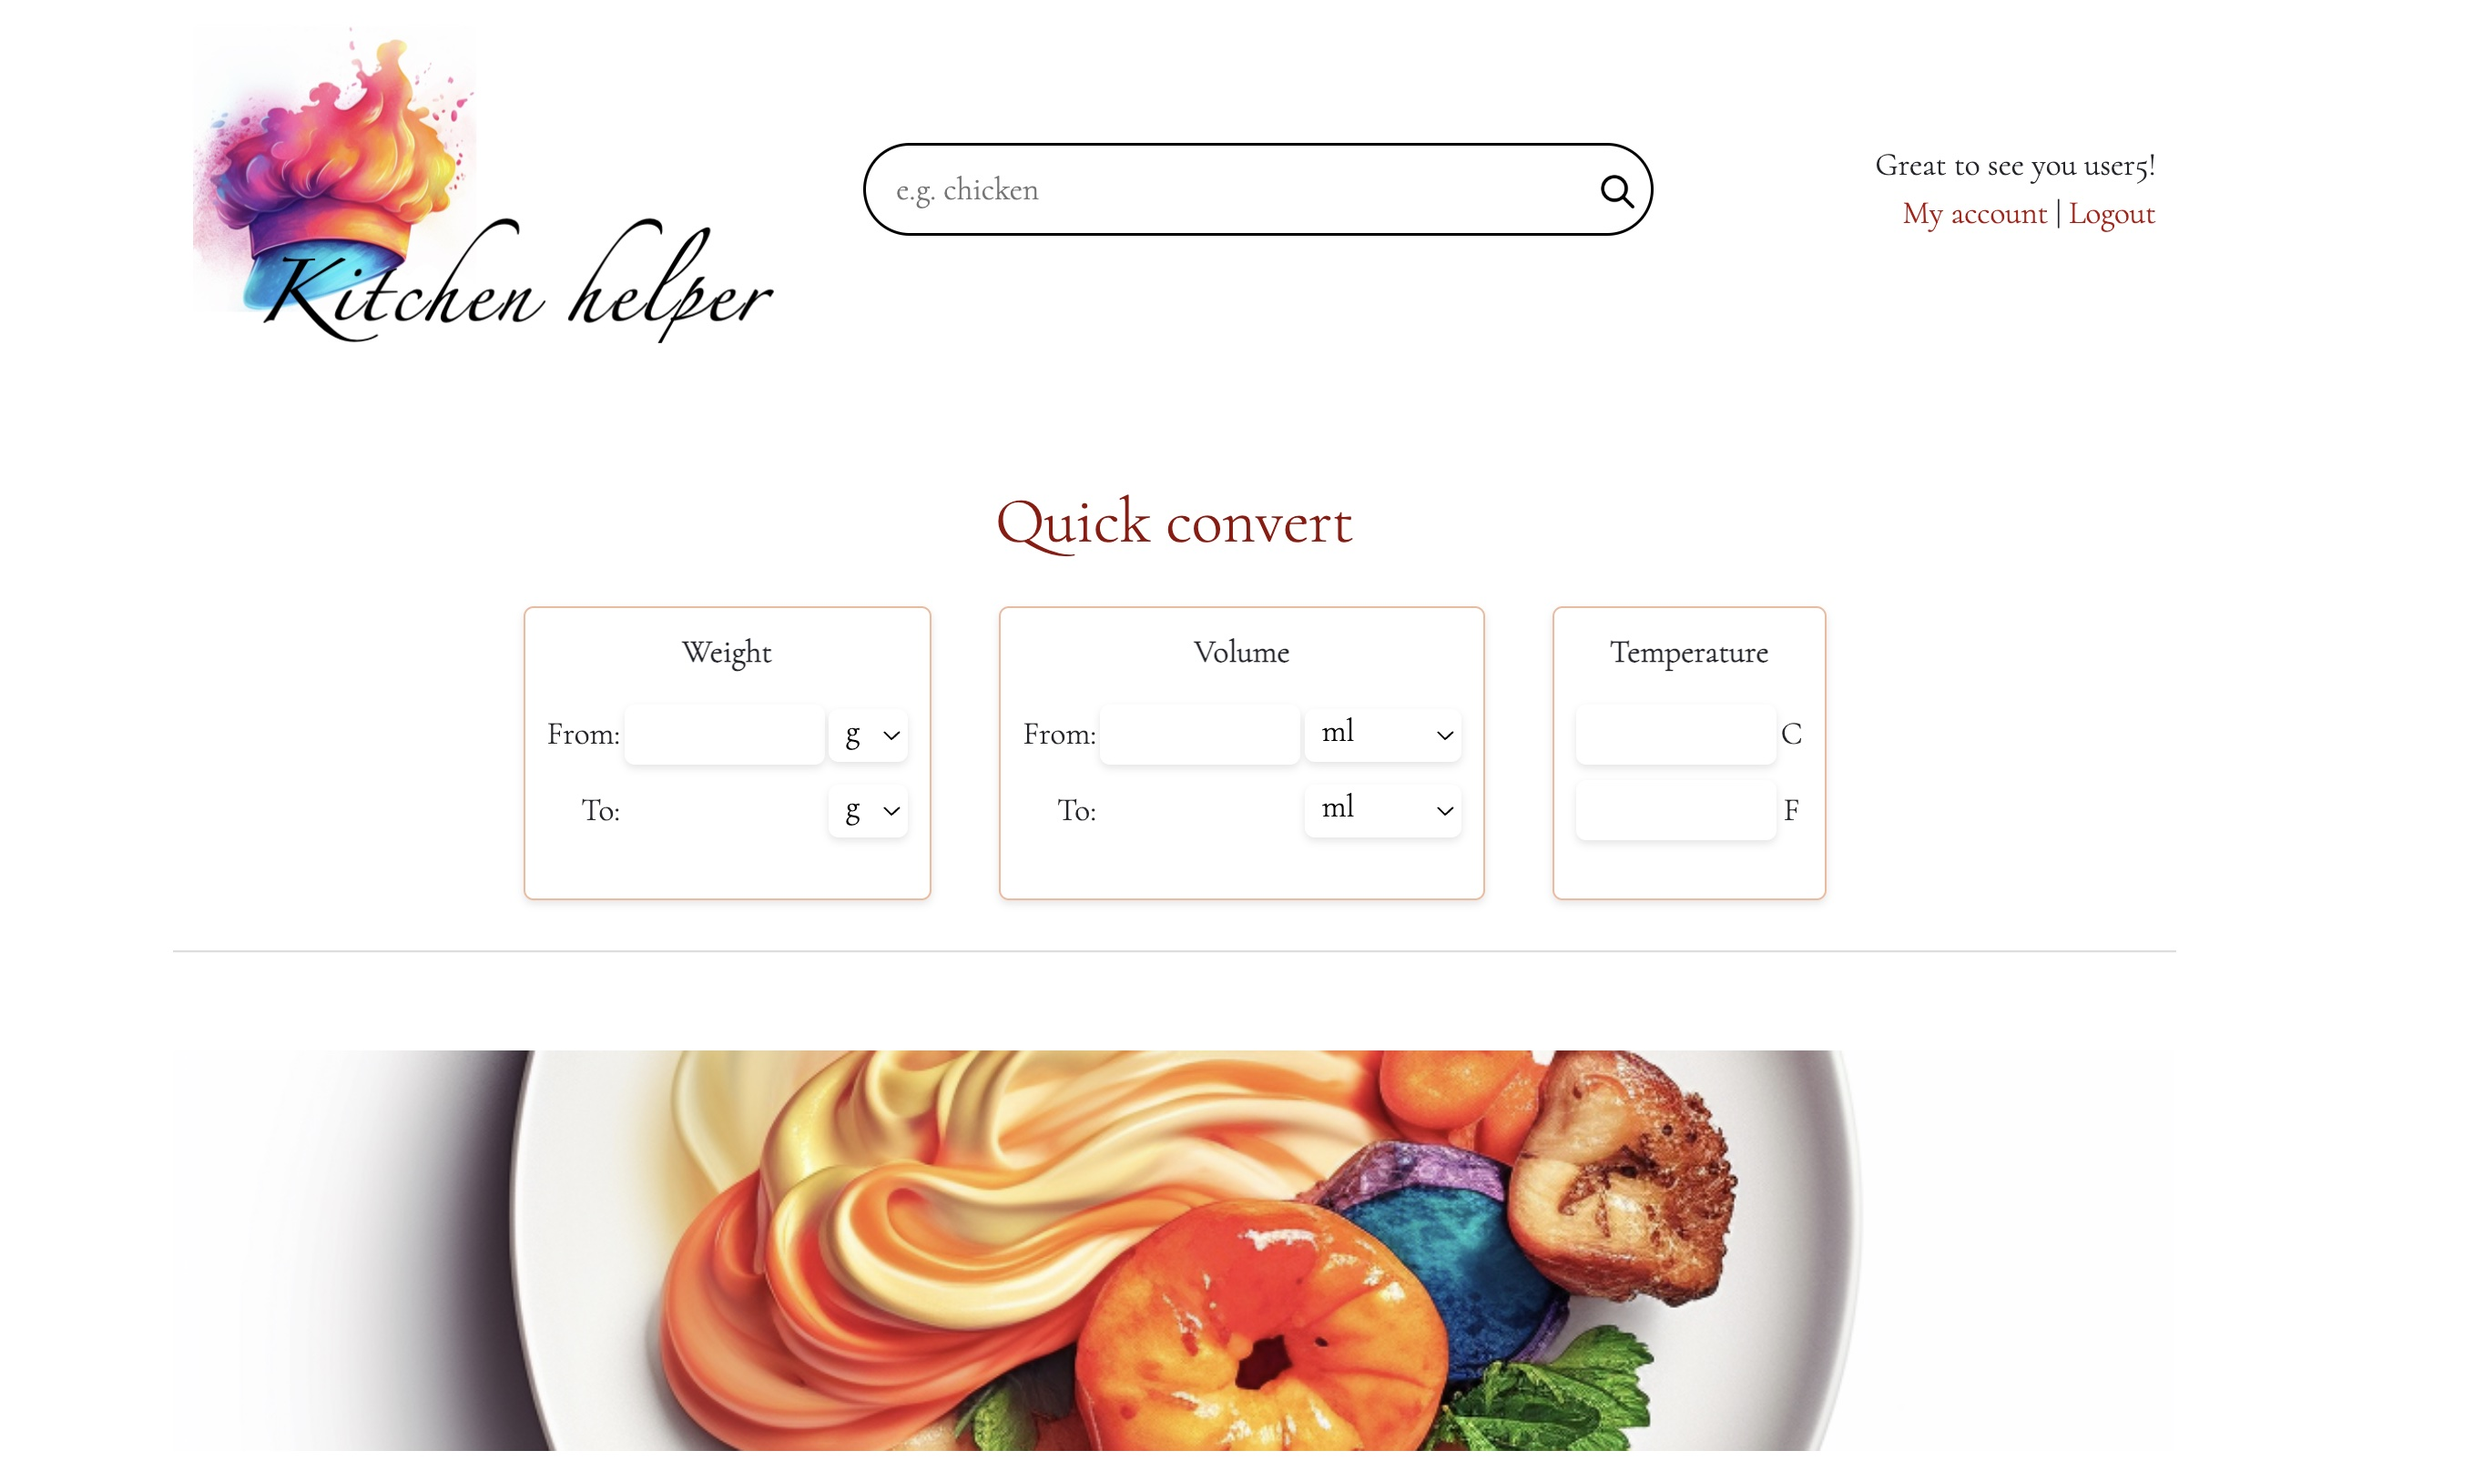
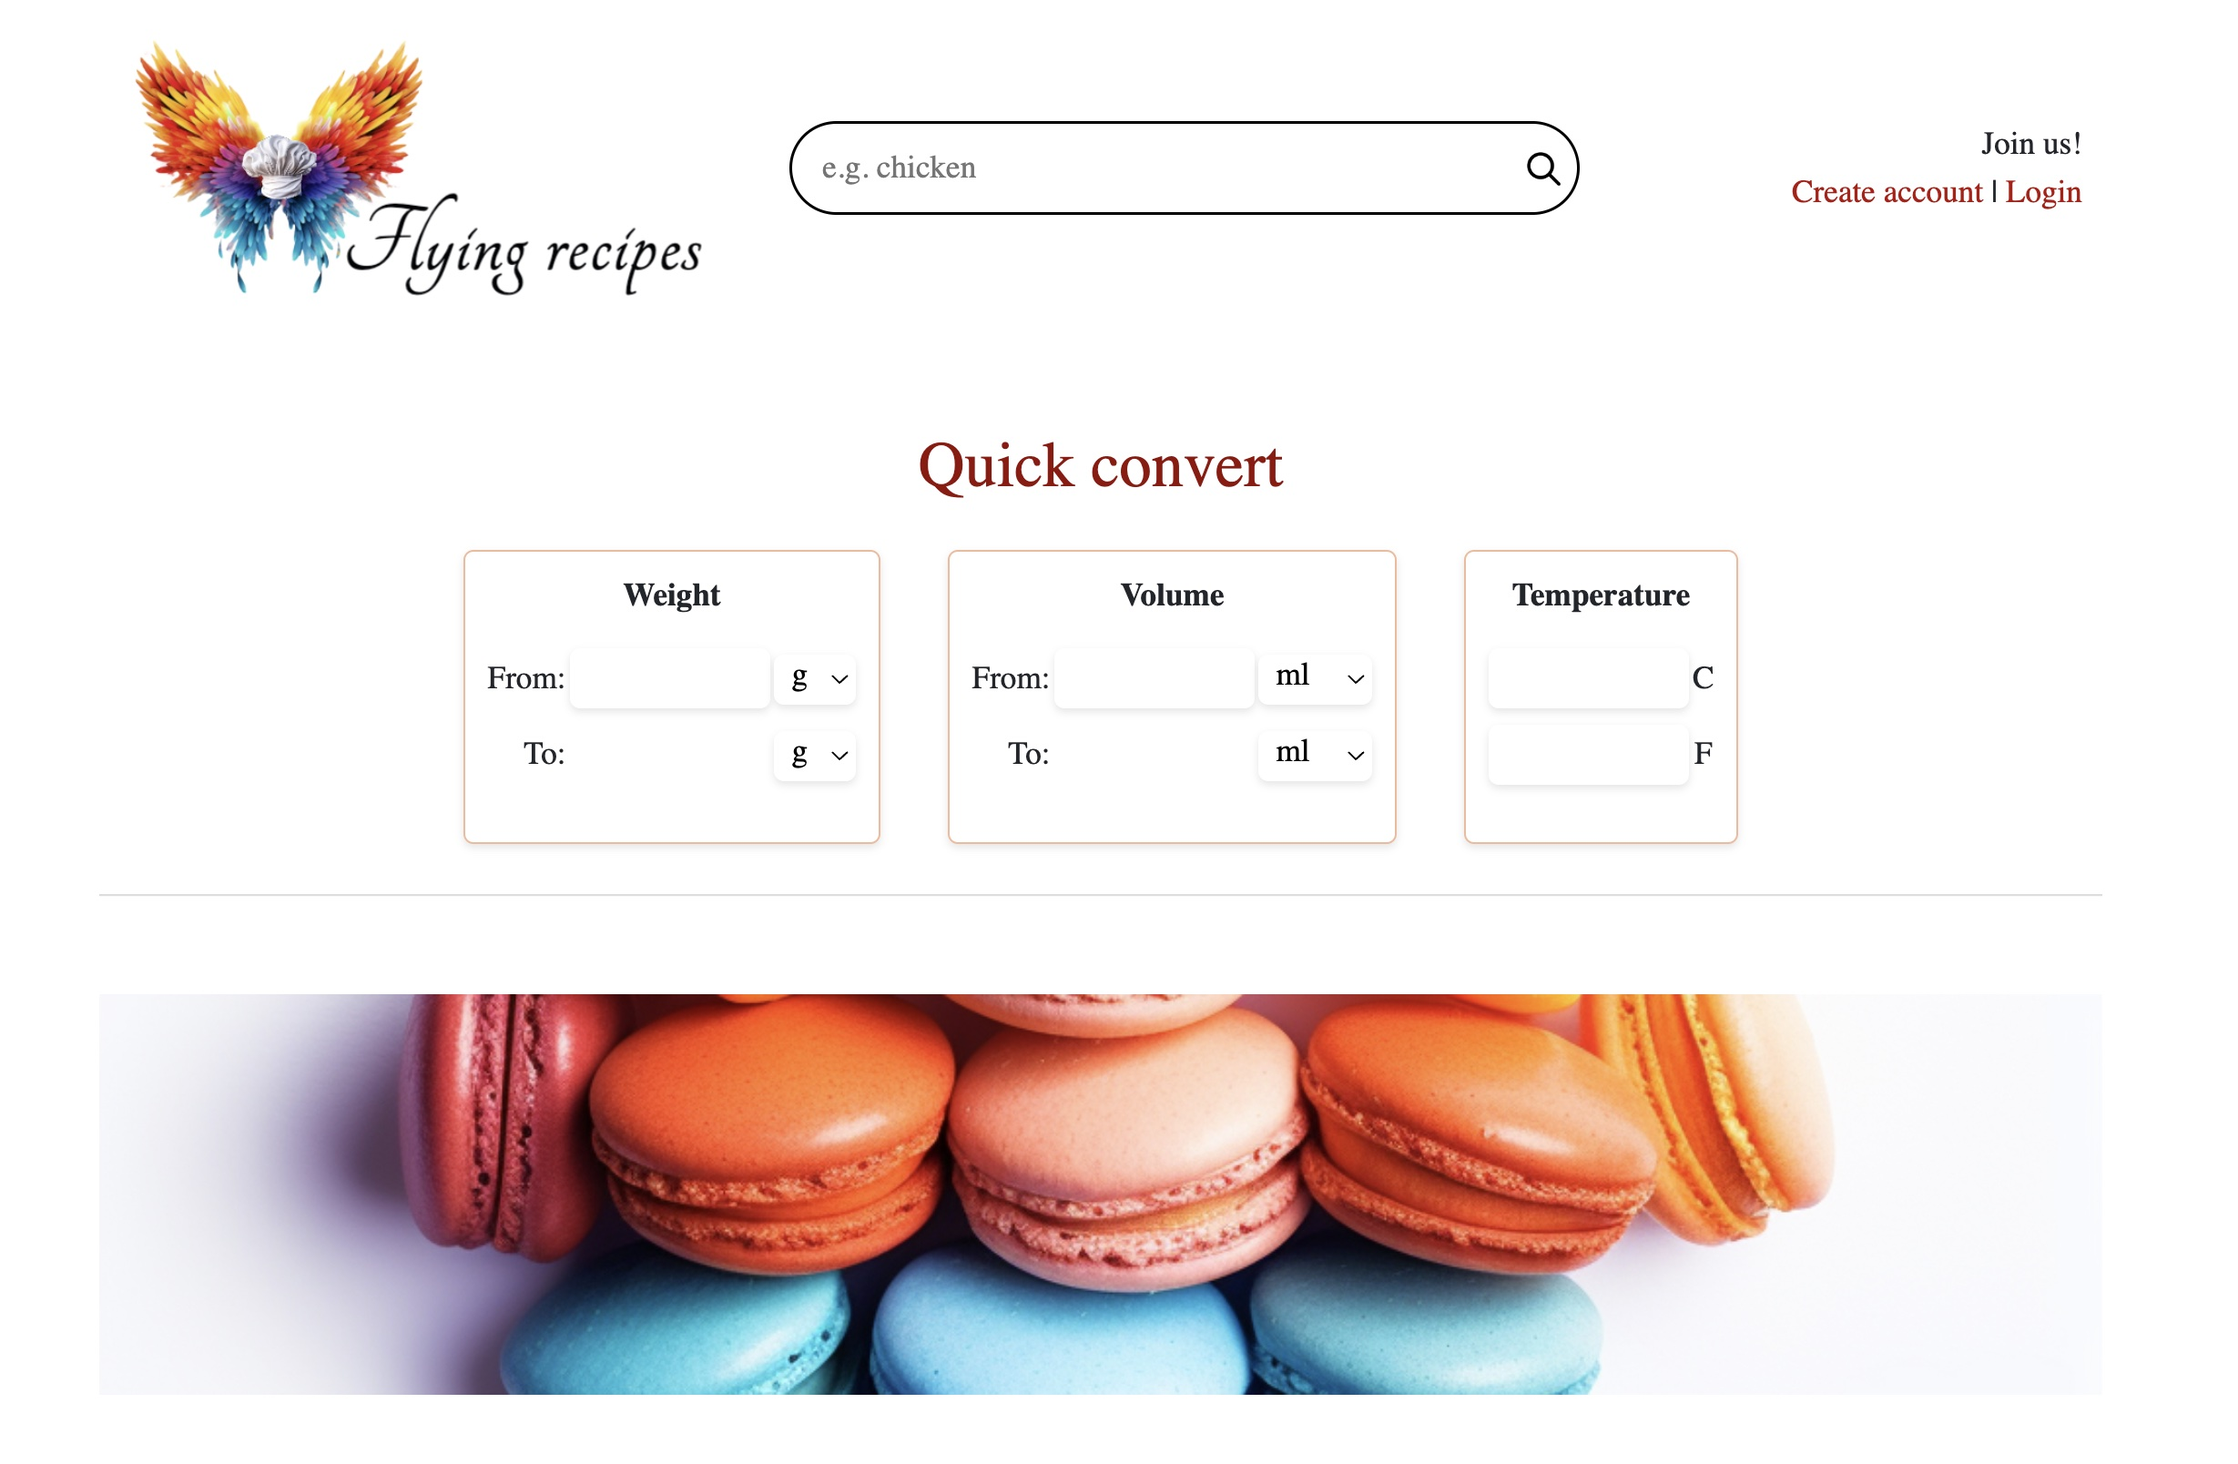
change in Readme

diff --git a/templates/base.html b/templates/base.html
@@ -9,7 +9,7 @@
 
   <meta charset="utf-8">
   <meta name="viewport" content="width=device-width">
-  <link rel="shortcut icon" href="/static/img/LogoCzapki.jpeg">
+  <link rel="shortcut icon" href="/static/img/favicon.png">
   <link href="https://cdn.jsdelivr.net/npm/bootstrap@5.0.1/dist/css/bootstrap.min.css" rel="stylesheet"
     integrity="sha384-+0n0xVW2eSR5OomGNYDnhzAbDsOXxcvSN1TPprVMTNDbiYZCxYbOOl7+AMvyTG2x" crossorigin="anonymous">
   <link rel="stylesheet" href="https://cdn.jsdelivr.net/npm/bootstrap-icons@1.5.0/font/bootstrap-icons.css">
@@ -39,7 +39,7 @@
     <div class="row align-items-center">
       <div class="col-md-4" id="logo">
         <a href="/">
-          <img width='300' src="/static/img/logo.jpeg"></a>
+          <img width='300' src="/static/img/logoH.png"></a>
       </div>
       <div class="col-md-5 search_container" id="search">
         <form id="search-form" class="search-form">
